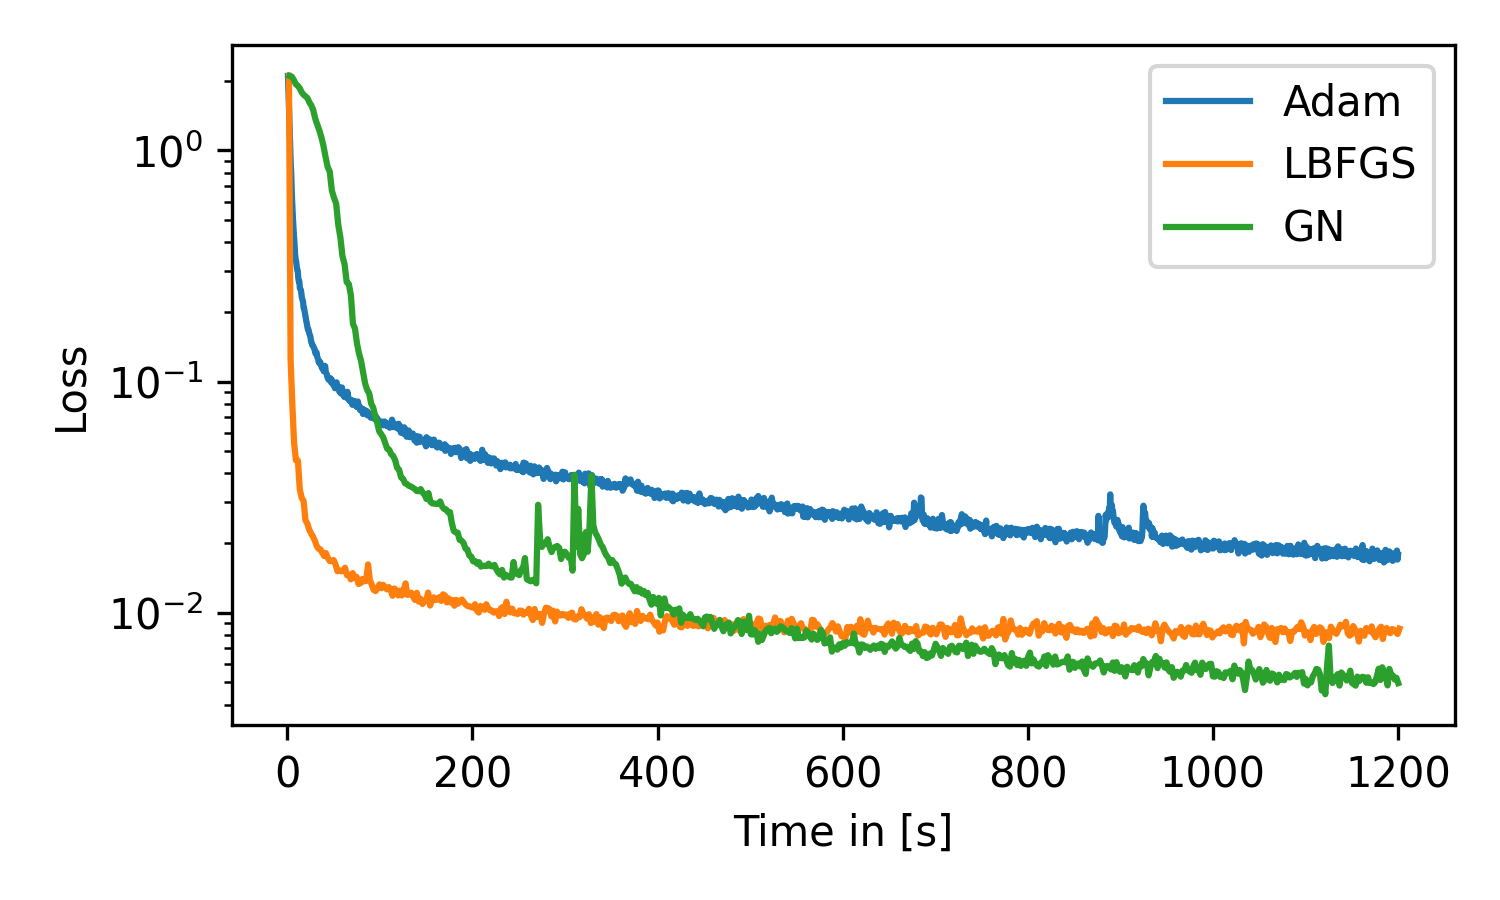
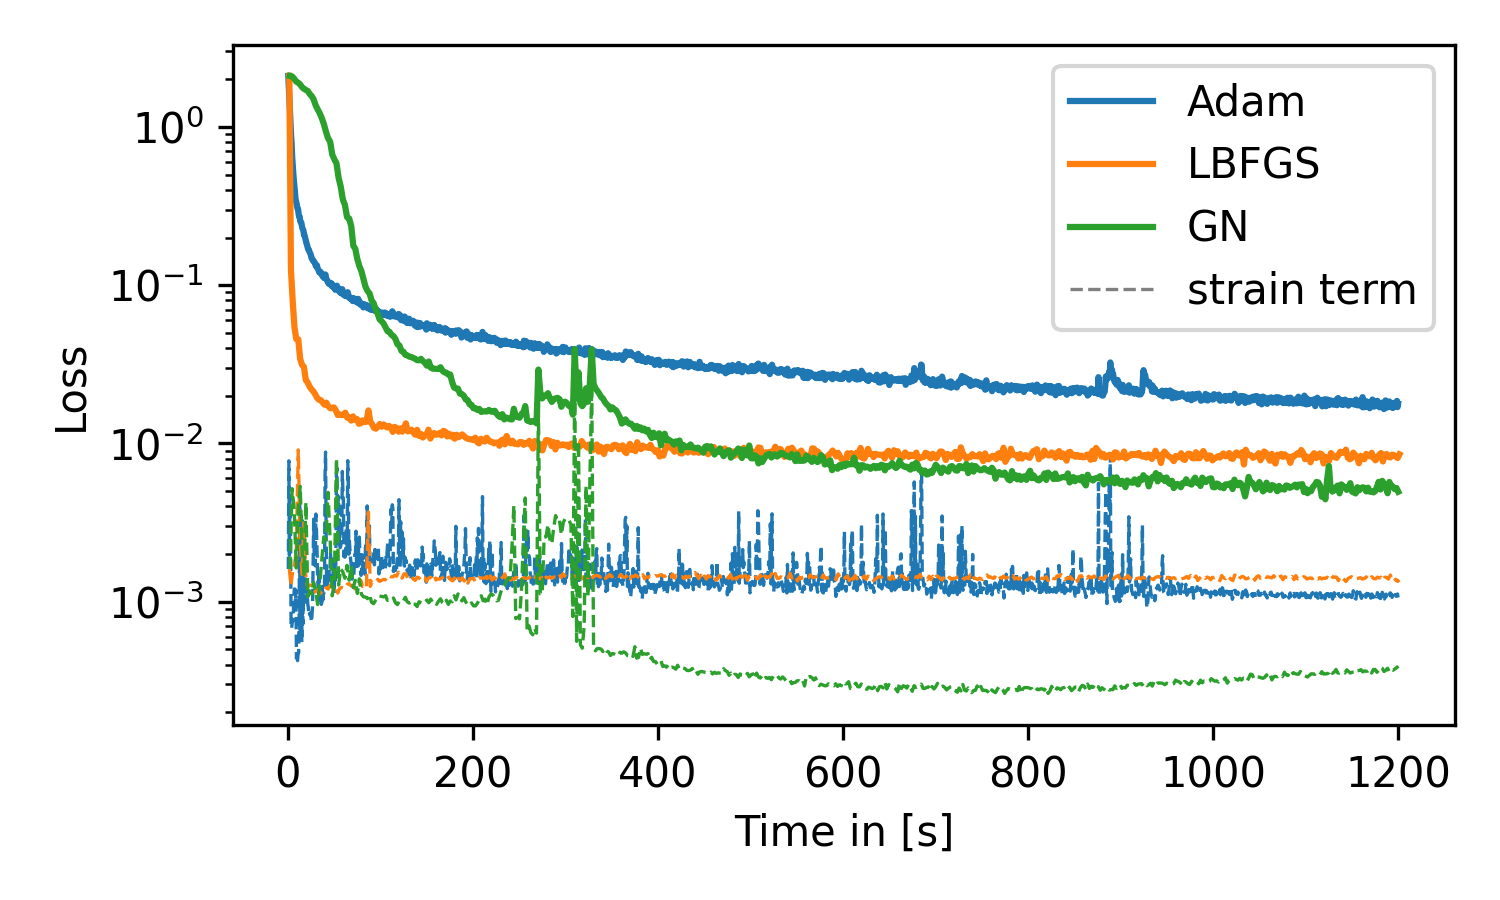
Add reproduce file

diff --git a/experiments/figures.py b/experiments/figures.py
@@ -13,12 +13,15 @@ and the interactive scenes to experiments/results/<task>/<exp>/k3d/:
     heatmap_<opt>.html / surfaces_<opt>.html              one optimizer per file (e.g. for the README)
 With --runs, only the given runs are rendered side by side in the same style, to k3d/<name>.html and k3d/<name>.png
 (e.g. to compare seeds or inspect failures); --paper writes the PNG to paper_figures/<task>_<name>.png instead.
+--starts adds a row above with each run's starting shape (its pretrained model, plain gray).
+--loss-terms adds weighted loss terms to the loss plot (dashed), e.g. --loss-terms strain for the JEB.
 The PNG of the k3d scene is rendered with headless Chrome via selenium.
 """
 
 import argparse
 import base64
 import io
+import json
 import os
 import pathlib
 import k3d
@@ -55,17 +58,31 @@ def display_orientation(task, x):
     return (x @ R.T).astype(x.dtype)
 
 
-def surface_mesh(task, run_dir, N=256):
-    """Marching-cubes mesh of the best model, with the task's surface attribute (|curvature|, log strain) if it has one."""
+def pretrained_path(task_name, run_dir):
+    """The pretrained model a run started from (named as in experiments.run)."""
+    with open(os.path.join(run_dir, "config.json")) as f:
+        config = json.load(f)
+    args_str = "".join(f"_{k}{v}" for k, v in config["task_args"].items())
+    return os.path.join(RESULTS_DIR, config["task"], "pretrained", f"seed{config['seed']}{args_str}.pt")
+
+
+def surface_mesh(task, run_dir, N=256, attribute=True):
+    """
+    Marching-cubes mesh of the best model (or of the checkpoint run_dir, if it is a .pt file), with the task's surface
+    attribute (|curvature|, log strain) if it has one and attribute is True.
+    """
     model = task.model()
-    model.load_state_dict(torch.load(os.path.join(run_dir, "best.pt")))
+    path = run_dir if run_dir.endswith(".pt") else os.path.join(run_dir, "best.pt")
+    model.load_state_dict(torch.load(path, map_location=torch.get_default_device()))
     bbox_min, bbox_max = (torch.tensor(b, dtype=torch.float64) for b in task.mesh_bbox)
-    verts, faces = get_mesh(lambda x: model(x.double()), N=N, device='cuda', bbox_min=bbox_min, bbox_max=bbox_max, chunks=2)
+    verts, faces = get_mesh(lambda x: model(x.double()), N=N, device=torch.get_default_device(), bbox_min=bbox_min, bbox_max=bbox_max, chunks=2)
     if getattr(task, "largest_component_only", False):
         component = largest_component(verts, faces)[0]
         verts, faces = np.asarray(component.vertices), np.asarray(component.faces)
     k = None
-    if hasattr(task, "surface_attribute"):
+    if not attribute:
+        pass
+    elif hasattr(task, "surface_attribute"):
         k = task.surface_attribute(model, verts)
     elif hasattr(task, "curvature"):
         ## Curvature of the zero set at the vertices projected onto it: the marching-cubes vertices lie up to a cell off
@@ -163,9 +180,12 @@ if __name__ == "__main__":
     parser.add_argument("--runs", nargs="*", help="only render these runs side by side, e.g. gn_seed0 gn_seed4")
     parser.add_argument("--name", default="runs", help="figure name for --runs")
     parser.add_argument("--paper", action="store_true", help="--runs: write the PNG to paper_figures/")
+    parser.add_argument("--device", default="cuda", help="cpu works too, but the renders take much longer")
+    parser.add_argument("--starts", action="store_true", help="--runs: add a row with the starting shapes")
+    parser.add_argument("--loss-terms", nargs="*", default=[], help="weighted loss terms to add to the loss plot, e.g. strain")
     args = parser.parse_args()
 
-    torch.set_default_device('cuda')
+    torch.set_default_device(args.device)
     task = TASKS[args.task]()
     exp_dir = os.path.join(RESULTS_DIR, args.task, args.exp)
     k3d_dir = os.path.join(exp_dir, "k3d" + args.suffix)
@@ -178,8 +198,17 @@ if __name__ == "__main__":
         with open(html_path, "w") as f:
             f.write(k3d_scene(task, meshes).get_snapshot())
         png_path = os.path.join(PAPER_FIGURES_DIR, f"{args.task}_{args.name}.png") if args.paper else html_path[:-5] + ".png"
-        heatmap_figure(k3d_screenshot(html_path, 800 * len(meshes), 800), task.heatmap.get("color_range"), [png_path],
-                       ticks=task.heatmap.get("ticks"))
+        img = k3d_screenshot(html_path, 800 * len(meshes), 800)
+        if args.starts:
+            starts = [surface_mesh(task, pretrained_path(args.task, os.path.join(exp_dir, run)), attribute=False) for run in args.runs]
+            with open(html_path[:-5] + "_starts.html", "w") as f:
+                f.write(k3d_scene(task, starts).get_snapshot())
+            top = k3d_screenshot(html_path[:-5] + "_starts.html", 800 * len(starts), 800)
+            stacked = Image.new("RGB", (max(top.width, img.width), top.height + img.height + img.height // 10), "white")
+            stacked.paste(top, ((stacked.width - top.width) // 2, 0))
+            stacked.paste(img, ((stacked.width - img.width) // 2, stacked.height - img.height))
+            img = stacked
+        heatmap_figure(img, task.heatmap.get("color_range"), [png_path], ticks=task.heatmap.get("ticks"))
         print(f"{args.name} order (left to right):", ", ".join(args.runs))
         raise SystemExit
     runs = load_runs(exp_dir, [opt + args.suffix for opt in task.figure_opts], args.seed)
@@ -188,7 +217,7 @@ if __name__ == "__main__":
     out = lambda name: [os.path.join(PAPER_FIGURES_DIR, f"{prefix}_{name}.png")]
 
     ## Training curves
-    plot_over_time(runs, "loss", "Loss", out("loss"))
+    plot_over_time(runs, "loss", "Loss", out("loss"), terms={k: getattr(task, f"{k}_weight", 1.0) for k in args.loss_terms})
     if all("cd" in evals["best"] for _, evals in runs.values()):
         plot_over_time(runs, "cd", "Chamfer distance", out("chamfer"))
 

diff --git a/experiments/scaling.py b/experiments/scaling.py
@@ -20,7 +20,8 @@ Writes to experiments/results/scaling/ (new measurements are merged into an exis
                                     limit
     <kind>_vs_p.png, <kind>_vs_n.png   all measurements: against p (one line per N) and against N (one line per width)
 Configurations above the GPU memory count as out of memory (under Windows they spill into system memory instead).
-With --plot-only, the figures and the table are made from scaling.json without measuring.
+With --plot-only, the figures and the table are made from scaling.json without measuring; --paper also writes the
+summary to paper_figures/scaling.png.
 """
 
 import argparse
@@ -197,6 +198,7 @@ if __name__ == "__main__":
     parser.add_argument("--repeats", type=int, default=5)
     parser.add_argument("--variants", nargs="+", default=VARIANTS, choices=VARIANTS)
     parser.add_argument("--plot-only", action="store_true", help="only make the figures and the table from scaling.json")
+    parser.add_argument("--paper", action="store_true", help="also write the summary to paper_figures/scaling.png")
     args = parser.parse_args()
 
     os.makedirs(OUT_DIR, exist_ok=True)
@@ -224,6 +226,8 @@ if __name__ == "__main__":
         plot(results, kind, "p", "n", os.path.join(OUT_DIR, f"{kind}_vs_p.png"))
         plot(results, kind, "n", "width", os.path.join(OUT_DIR, f"{kind}_vs_n.png"))
     summary_plot(results, os.path.join(OUT_DIR, "summary.png"))
+    if args.paper:
+        summary_plot(results, os.path.join(os.path.dirname(os.path.dirname(__file__)), "paper_figures", "scaling.png"))
     with open(os.path.join(OUT_DIR, "scaling.md"), "w") as f:
         f.write(f"## Cost per update on {data['device']}, float64\n\n{table(results)}\n")
     print(table(results))

diff --git a/experiments/plot.py b/experiments/plot.py
@@ -40,7 +40,8 @@ def load_runs(exp_dir, names, seed):
     return runs
 
 
-def plot_over_time(runs, key, ylabel, paths, paper_file=None):
+def plot_over_time(runs, key, ylabel, paths, paper_file=None, terms={}):
+    """terms: {name: weight} of loss terms drawn dashed below the loss (key "loss" only), e.g. the JEB's strain."""
     fig, ax = plt.subplots(1, 1, figsize=(5, 3))
     for name, (log, evals) in runs.items():
         opt, label = split_name(name)
@@ -49,11 +50,15 @@ def plot_over_time(runs, key, ylabel, paths, paper_file=None):
         else:
             t, v = zip(*[(e["time"], e[key]) for e in evals["over_time"]])
         ax.plot(t, v, label=label, c=COLORS[opt], ls='-' if label == LABELS[opt] else ':')
+        for term, weight in terms.items():
+            ax.plot(t, [weight * x if x is not None else float('nan') for x in log[term]], c=COLORS[opt], ls='--', lw=0.8)
         if paper_file and label == LABELS[opt] and os.path.exists(paper_file.format(opt)):
             stored = torch.load(paper_file.format(opt), weights_only=False)
             ax.plot(list(stored.keys()), list(stored.values()), c=COLORS[opt], ls='--', lw=0.8, alpha=0.7)
     if paper_file:
         ax.plot([], [], c='gray', ls='--', lw=0.8, label="paper run")
+    for term in terms:
+        ax.plot([], [], c='gray', ls='--', lw=0.8, label=f"{term} term")
     ax.set_xlabel("Time in [s]")
     ax.set_ylabel(ylabel)
     ax.semilogy()

diff --git a/experiments/run.py b/experiments/run.py
@@ -140,7 +140,7 @@ def run(task_name, opt_name, seed=0, budget=600, eval_every=5, task_args={}, opt
     scheduler = torch.optim.lr_scheduler.CosineAnnealingWarmRestarts(optim, restart_period, T_mult=2) if restart_period else None
 
     config = dict(
-        task=task_name, task_args=task_args, opt=opt_name, opt_args=opt_kwargs, seed=seed, budget=budget,
+        task=task_name, task_args=task_args, opt=opt_name, opt_args=opt_kwargs, seed=seed, budget=budget, eval_every=eval_every,
         resample_in_closure=resample_in_closure, freeze_samples=freeze_samples, task_attrs=task_attrs,
         restart_period=restart_period,
         n_params=sum(p.numel() for p in model.parameters()),
